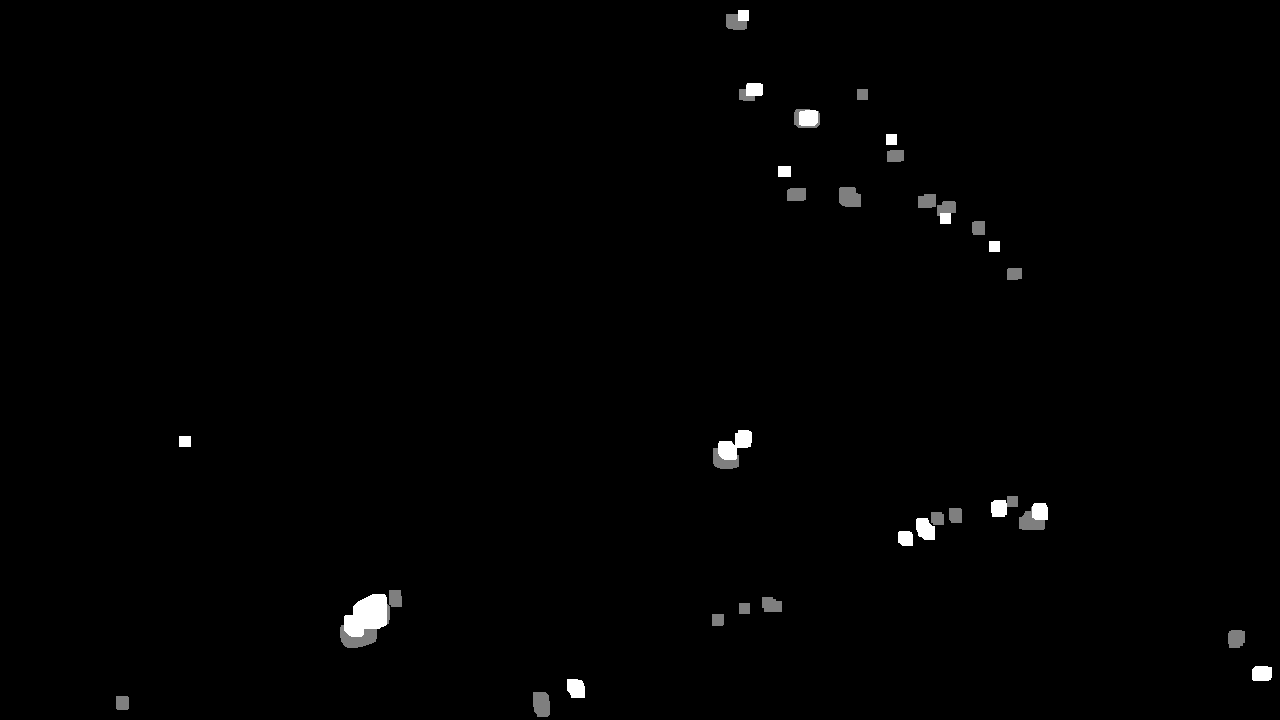
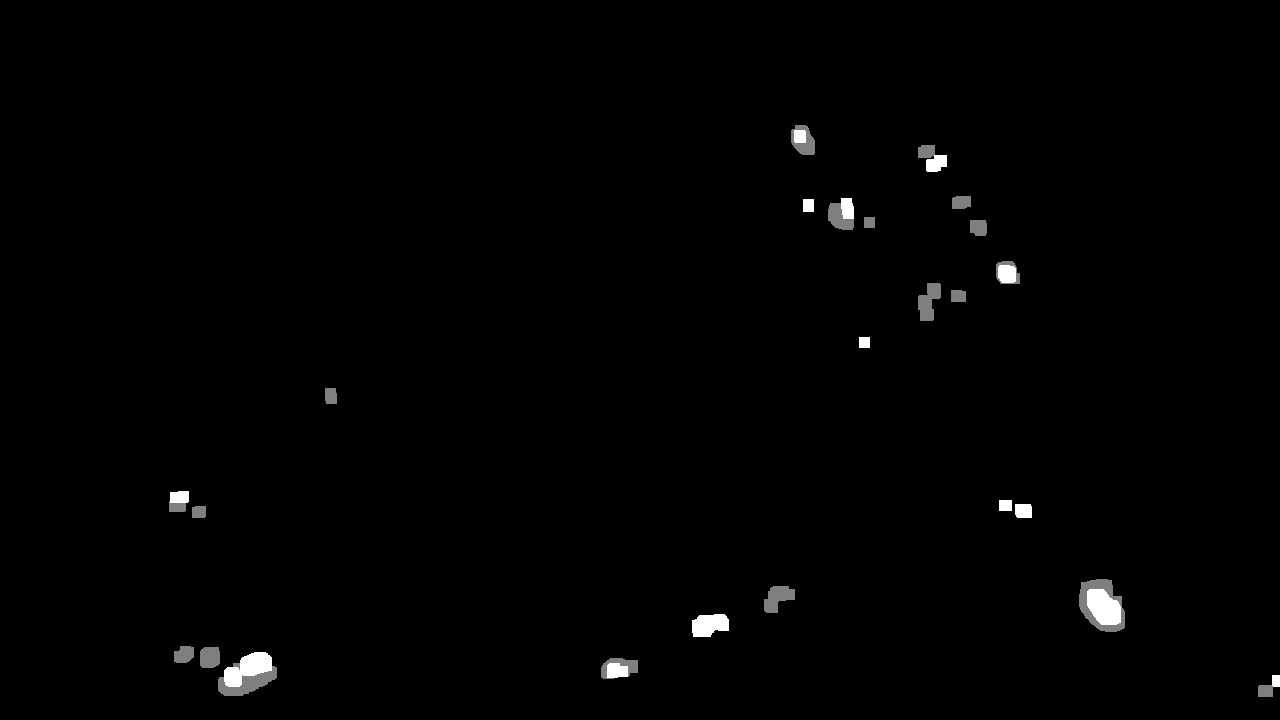
Images

diff --git a/ForHandIn.py b/ForHandIn.py
@@ -62,12 +62,12 @@ class VideoTrackerFinal:
 
         fgmask = cv2.cvtColor(fgmask, cv2.COLOR_GRAY2BGR)
 
-        # cv2.imwrite('Background.png', fgmask)
-        # cv2.waitKey(10)
-        #
-        # display_image = cv2.addWeighted(frame, 0.5, fgmask, 0.5, 0.0)
-        # cv2.imwrite('Background2.png', display_image)
-        # cv2.waitKey(10)
+        cv2.imwrite('Background.png', fgmask)
+        cv2.waitKey(10)
+
+        display_image = cv2.addWeighted(frame, 0.5, fgmask, 0.5, 0.0)
+        cv2.imwrite('Background2.png', display_image)
+        cv2.waitKey(10)
 
         return use_frame, fgmask
 
@@ -120,10 +120,8 @@ class VideoTrackerFinal:
             if stats[i, cv2.CC_STAT_AREA] > 50:
                 cv2.circle(display_image, (int(centroids[i][0]), int(centroids[i][1])), 3, (255, 0, 0), 3, 8, 0)
 
-        # cv2.imwrite('Blobs.png', display_image)
-        # cv2.waitKey(500)
-        # print("NOW!")
-        # cv2.waitKey(500)
+        cv2.imwrite('Blobs.png', display_image)
+        cv2.waitKey(10)
 
         new_points_to_track = []
         counter = 0
@@ -197,6 +195,9 @@ class VideoTrackerFinal:
 
             ret, frame = self.video.read()
 
+            cv2.imwrite('Orig.png', frame)
+            cv2.waitKey(10)
+
             throw_away_frame, background = self.subtract_background(frame)
 
             if use_transformation:
@@ -245,6 +246,11 @@ class VideoTrackerFinal:
 
             # Display result
             cv2.imshow(window_name, frame)
+
+            # cv2.imwrite('Kalman.png', frame)
+            # cv2.waitKey(500)
+            # print("NOW!")
+            # cv2.waitKey(500)
 
             # Exit if ESC pressed
             k = cv2.waitKey(1) & 0xff
